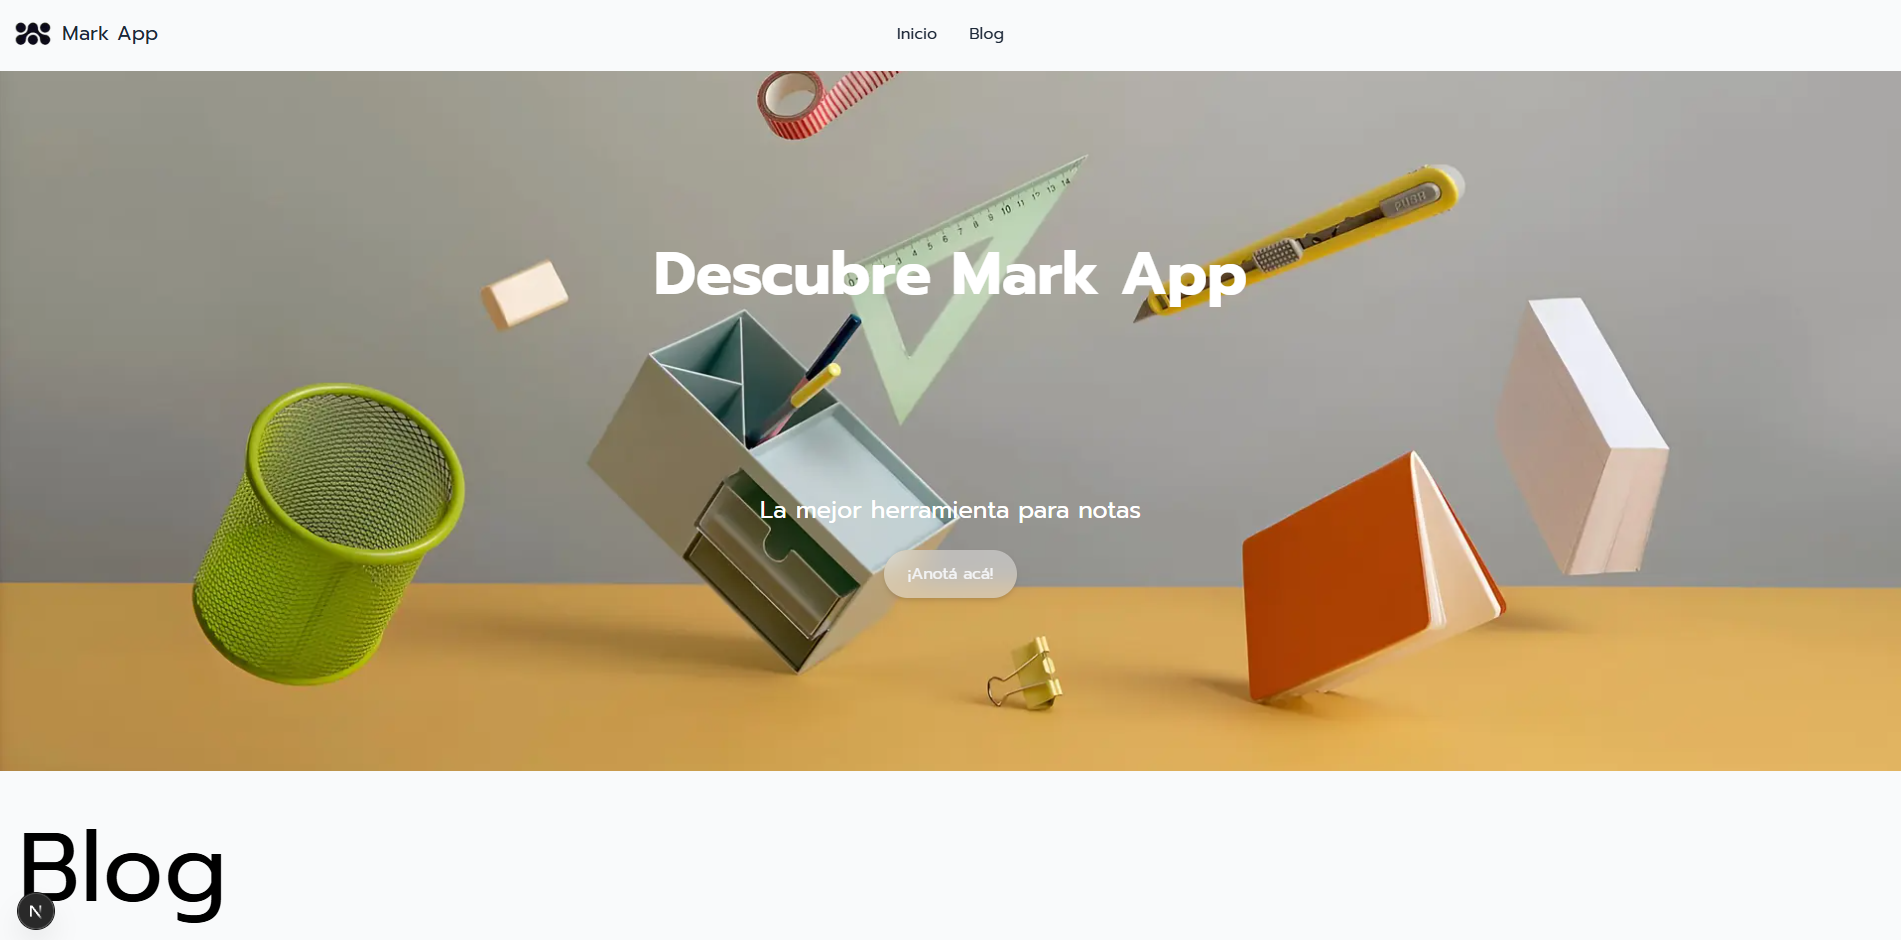
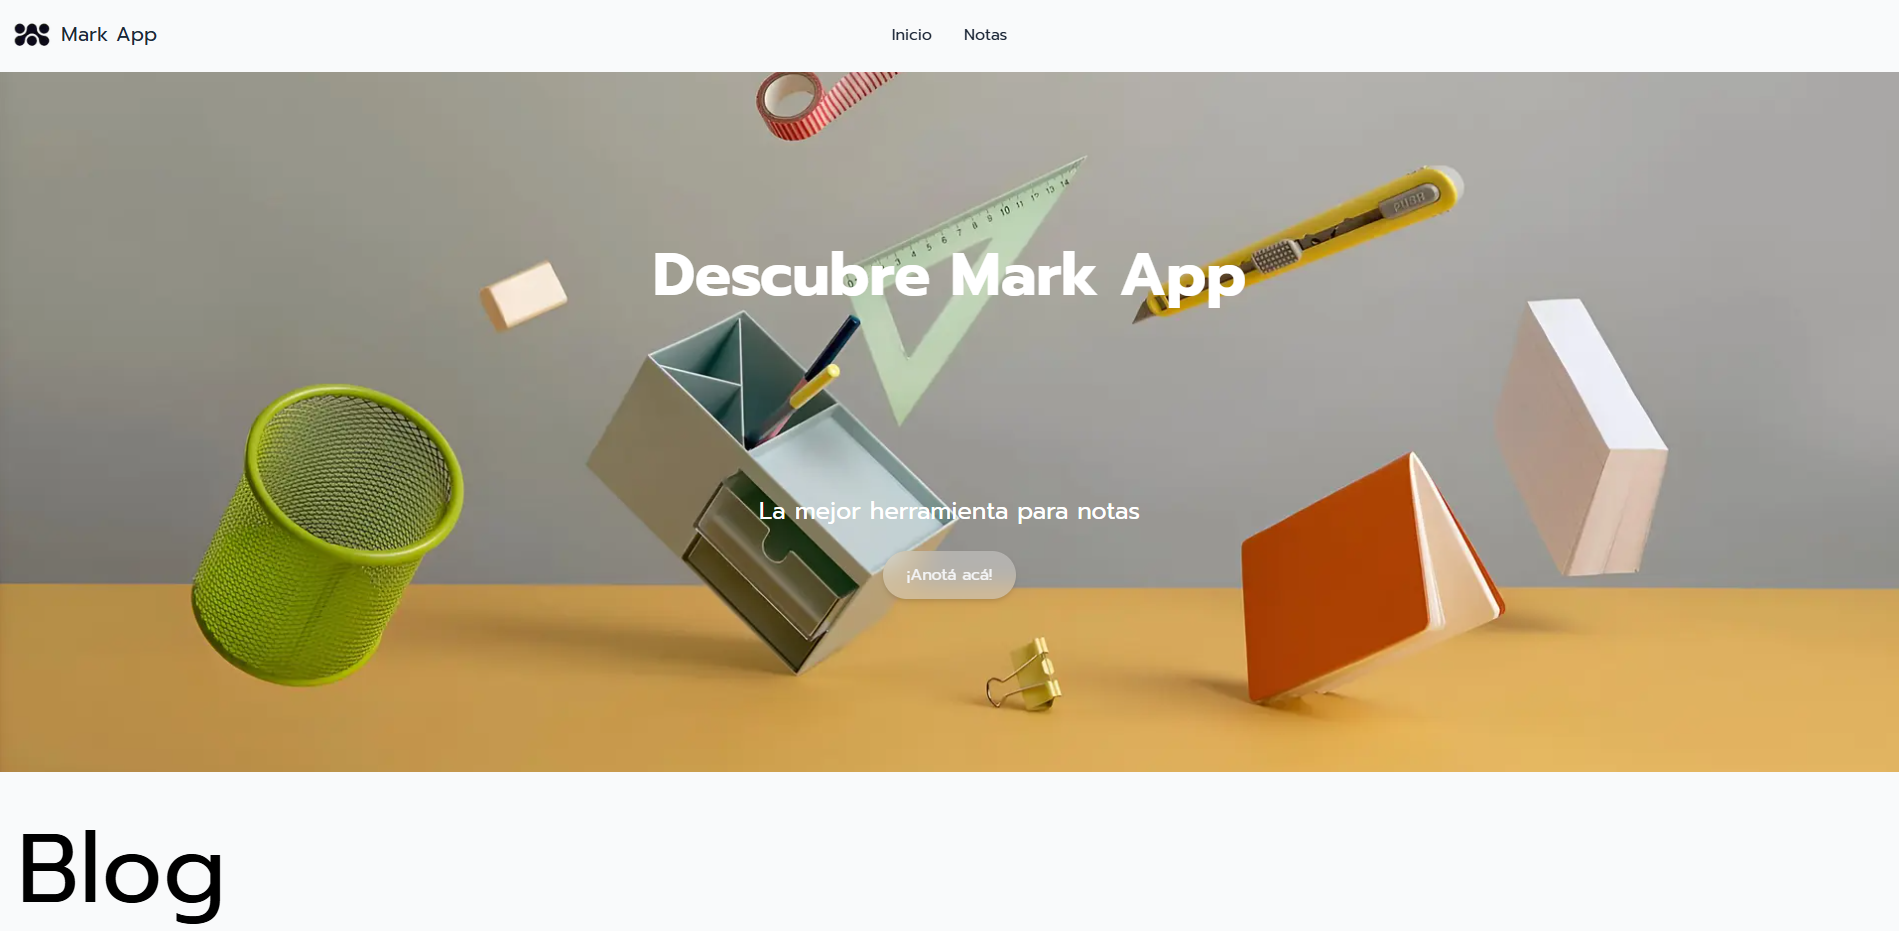
se termina sección de nuevo proyecto con clases responsive e información

diff --git a/Desktop/Portfolio/markapp.html b/Desktop/Portfolio/markapp.html
@@ -49,11 +49,11 @@
 						<div id="content">
 							<article class="box post">
 								<header class="style1">
-									<h2>Lorem ipsum dolor sit amet magna egestas morbi bibendum sed malesuada</h2>
-									<p>Tempus feugiat veroeros sed nullam dolore</p>
+									<h2>Haciéndo lo Accesible</h2>
+
 								</header>
-								<a href="#" class="image featured">
-									<img src="images/pic01.jpg" alt="" />
+								<a href="images/markapp.png" class="image featured" target="_blank">
+									<img src="images/markapp.png" alt="Mark App" />
 								</a>
 								<p><strong>¿De qué trata Mark App?</strong></p>
 
@@ -97,27 +97,11 @@
 								<div class="col-6 col-12-small">
 									<section class="box">
 										<header>
-											<h2>Magna pulvinar tempus</h2>
+											<h2>Link Github</h2>
 										</header>
-										<a href="#" class="image featured"><img src="images/pic05.jpg" alt="" /></a>
-										<p>Rutrum bibendum. Proin pellentesque diam non ligula commodo tempor. Vivamus
-											eget urna nibh. Curabitur non fringilla nisl. Donec accumsan interdum nisi,
-											quis
-											tempus.</p>
-										<a href="#" class="button style1">More</a>
-									</section>
-								</div>
-								<div class="col-6 col-12-small">
-									<section class="box">
-										<header>
-											<h2>Magna pulvinar tempus</h2>
-										</header>
-										<a href="#" class="image featured"><img src="images/pic06.jpg" alt="" /></a>
-										<p>Rutrum bibendum. Proin pellentesque diam non ligula commodo tempor. Vivamus
-											eget urna nibh. Curabitur non fringilla nisl. Donec accumsan interdum nisi,
-											quis
-											tempus.</p>
-										<a href="#" class="button style1">More</a>
+										<p>Acceso a repositorio de Github</p>
+										<a href="https://github.com/HugoEseverri/markapp" class="button style1"
+											target="_blank">Acceder</a>
 									</section>
 								</div>
 							</div>
@@ -130,61 +114,95 @@
 						<div id="sidebar">
 							<section class="box">
 								<header>
-									<h2>Ipsum nullam luctus</h2>
+									<h2>Página aún en desarrollo</h2>
 								</header>
-								<p>Malesuada quis eget eros. Nullam sodales cursus sapien, id consequat
-									leo suscipit ut. Praesent id turpis vitae turpis pretium ultricies. Vestibulum sit
-									amet risus elit.</p>
-								<a href="#" class="button style1">Learn More</a>
 							</section>
 							<section class="box">
 								<header>
-									<h2>Vitae turpis consequat</h2>
+									<h2>Tecnologías usadas:</h2>
 								</header>
 								<ul class="style2">
+									<!-- Frontend: React -->
 									<li>
 										<article class="box post-excerpt">
-											<a href="#" class="image left"><img src="images/pic08.jpg" alt="" /></a>
-											<h3><a href="#">Diam odio lorem</a></h3>
-											<p>Duis odio diam, luctus et vulputate vitae, vehicula ac dolor.
-												Pellentesque at urna eget tellus sed etiam.</p>
+											<h3>React</h3>
+											<p>Framework JavaScript utilizado para construir la interfaz de usuario
+												interactiva y dinámica.</p>
 										</article>
 									</li>
+
+									<!-- Frontend: Next.js -->
 									<li>
 										<article class="box post-excerpt">
-											<a href="#" class="image left"><img src="images/pic09.jpg" alt="" /></a>
-											<h3><a href="#">Sed duis consequat</a></h3>
-											<p>Duis odio diam, luctus et vulputate vitae, vehicula ac dolor.
-												Pellentesque at urna eget tellus sed etiam.</p>
+											<h3>Next.js</h3>
+											<p>Framework React para el desarrollo de aplicaciones web que facilita la
+												creación de aplicaciones web y sitios estáticos, optimizando el
+												rendimiento y la carga.</p>
 										</article>
 									</li>
+
+									<!-- Frontend: Tailwind CSS -->
 									<li>
 										<article class="box post-excerpt">
-											<a href="#" class="image left"><img src="images/pic10.jpg" alt="" /></a>
-											<h3><a href="#">Tellus nulla volutpat</a></h3>
-											<p>Duis odio diam, luctus et vulputate vitae, vehicula ac dolor.
-												Pellentesque at urna eget tellus sed etiam.</p>
+											<h3>Tailwind CSS</h3>
+											<p>Framework CSS de utilidad que permite crear interfaces de usuario
+												personalizadas y atractivas de forma rápida y eficiente.</p>
 										</article>
 									</li>
-								</ul>
-								<a href="#" class="button style1">Archives</a>
-							</section>
-							<section class="box">
-								<header>
-									<h2>Magna diam vehicula</h2>
-								</header>
-								<ul class="style3">
-									<li><a href="#">Nulla iaculis egestas varius</a></li>
-									<li><a href="#">Augue massa feugiat quam pretium</a></li>
-									<li><a href="#">Orci sem vel libero cras nisi odio</a></li>
-									<li><a href="#">Sed hendrerit massa nam mattis</a></li>
-									<li><a href="#">Turpis vel leo accumsan aliquet</a></li>
-									<li><a href="#">Dapibus mi fermentum fusce non</a></li>
-									<li><a href="#">Arcu laoreet sapien tempus</a></li>
-									<li><a href="#">Nulla iaculis egestas varius</a></li>
-									<li><a href="#">Augue massa feugiat quam pretium</a></li>
-									<li><a href="#">Orci sem vel libero cras nisi odio</a></li>
-									<li><a href="#">Sed hendrerit massa nam mattis</a></li>
+
+									<!-- Frontend: Framer Motion -->
+									<li>
+										<article class="box post-excerpt">
+											<h3>Framer Motion</h3>
+											<p>Biblioteca para animaciones y transiciones suaves dentro de la
+												aplicación, mejorando la experiencia visual.</p>
+										</article>
+									</li>
+
+									<!-- Frontend: Image Optimization -->
+									<li>
+										<article class="box post-excerpt">
+											<h3>Optimización de Imágenes</h3>
+											<p>Uso de imágenes optimizadas con Next.js, mejorando el rendimiento del
+												sitio y la carga de imágenes.</p>
+										</article>
+									</li>
+
+									<!-- Notas: Markdown -->
+									<li>
+										<article class="box post-excerpt">
+											<h3>Markdown</h3>
+											<p>Markdown es el lenguaje elegido para la redacción de notas. Su sintaxis
+												simple permite estructurar textos con títulos, listas, énfasis, enlaces
+												y más.</p>
+										</article>
+									</li>
+
+									<!-- Backend: Node.js -->
+									<li>
+										<article class="box post-excerpt">
+											<h3>Node.js</h3>
+											<p>Entorno de ejecución JavaScript utilizado para construir el servidor.</p>
+										</article>
+									</li>
+
+									<!-- Backend: Express -->
+									<li>
+										<article class="box post-excerpt">
+											<h3><a href="#">Express</a></h3>
+											<p>Framework de Node.js que facilita la creación de API RESTful para la
+												interacción con el frontend.</p>
+										</article>
+									</li>
+
+									<!-- Backend: MongoDB -->
+									<li>
+										<article class="box post-excerpt">
+											<h3>MongoDB</h3>
+											<p>Base de datos NoSQL que puede ser utilizada para almacenar notas y datos
+												del usuario.</p>
+										</article>
+									</li>
 								</ul>
 							</section>
 						</div>
@@ -196,47 +214,34 @@
 
 		<!-- Highlights -->
 		<section id="highlights" class="wrapper style3">
-			<div class="title">The Endorsements</div>
+			<div class="title">Más de Mark App</div>
 			<div class="container">
 				<div class="row aln-center">
 					<div class="col-4 col-12-medium">
 						<section class="highlight">
-							<a href="#" class="image featured"><img src="images/pic02.jpg" alt="" /></a>
-							<h3><a href="#">Aliquam diam consequat</a></h3>
-							<p>Eget mattis at, laoreet vel amet sed velit aliquam diam ante, dolor aliquet sit amet
-								vulputate mattis amet laoreet lorem.</p>
-							<ul class="actions">
-								<li><a href="#" class="button style1">Learn More</a></li>
-							</ul>
+							<a href="images/mark2.png" class="image featured" target="_blank"><img
+									src="images/mark2.png" alt="" /></a>
+							<h3>Noticias e Información</h3>
 						</section>
 					</div>
 					<div class="col-4 col-12-medium">
 						<section class="highlight">
-							<a href="#" class="image featured"><img src="images/pic03.jpg" alt="" /></a>
-							<h3><a href="#">Nisl adipiscing sed lorem</a></h3>
-							<p>Eget mattis at, laoreet vel amet sed velit aliquam diam ante, dolor aliquet sit amet
-								vulputate mattis amet laoreet lorem.</p>
-							<ul class="actions">
-								<li><a href="#" class="button style1">Learn More</a></li>
-							</ul>
+							<a href="images/mark3.png" class="image featured" target="_blank"><img
+									src="images/mark3.png" alt="" /></a>
+							<h3>Acerca de Mark App</h3>
 						</section>
 					</div>
 					<div class="col-4 col-12-medium">
 						<section class="highlight">
-							<a href="#" class="image featured"><img src="images/pic04.jpg" alt="" /></a>
-							<h3><a href="#">Mattis tempus lorem</a></h3>
-							<p>Eget mattis at, laoreet vel amet sed velit aliquam diam ante, dolor aliquet sit amet
-								vulputate mattis amet laoreet lorem.</p>
-							<ul class="actions">
-								<li><a href="#" class="button style1">Learn More</a></li>
-							</ul>
+							<a href="images/mark4.png" class="image featured" target="_blank"><img
+									src="images/mark4.png" alt="" /></a>
+							<h3>Sección de Notas</h3>
 						</section>
 					</div>
 				</div>
 			</div>
 		</section>
 
-		<!-- Footer -->
 		<!-- Footer -->
 		<section id="footer" class="wrapper">
 			<div class="title">Contacto</div>
